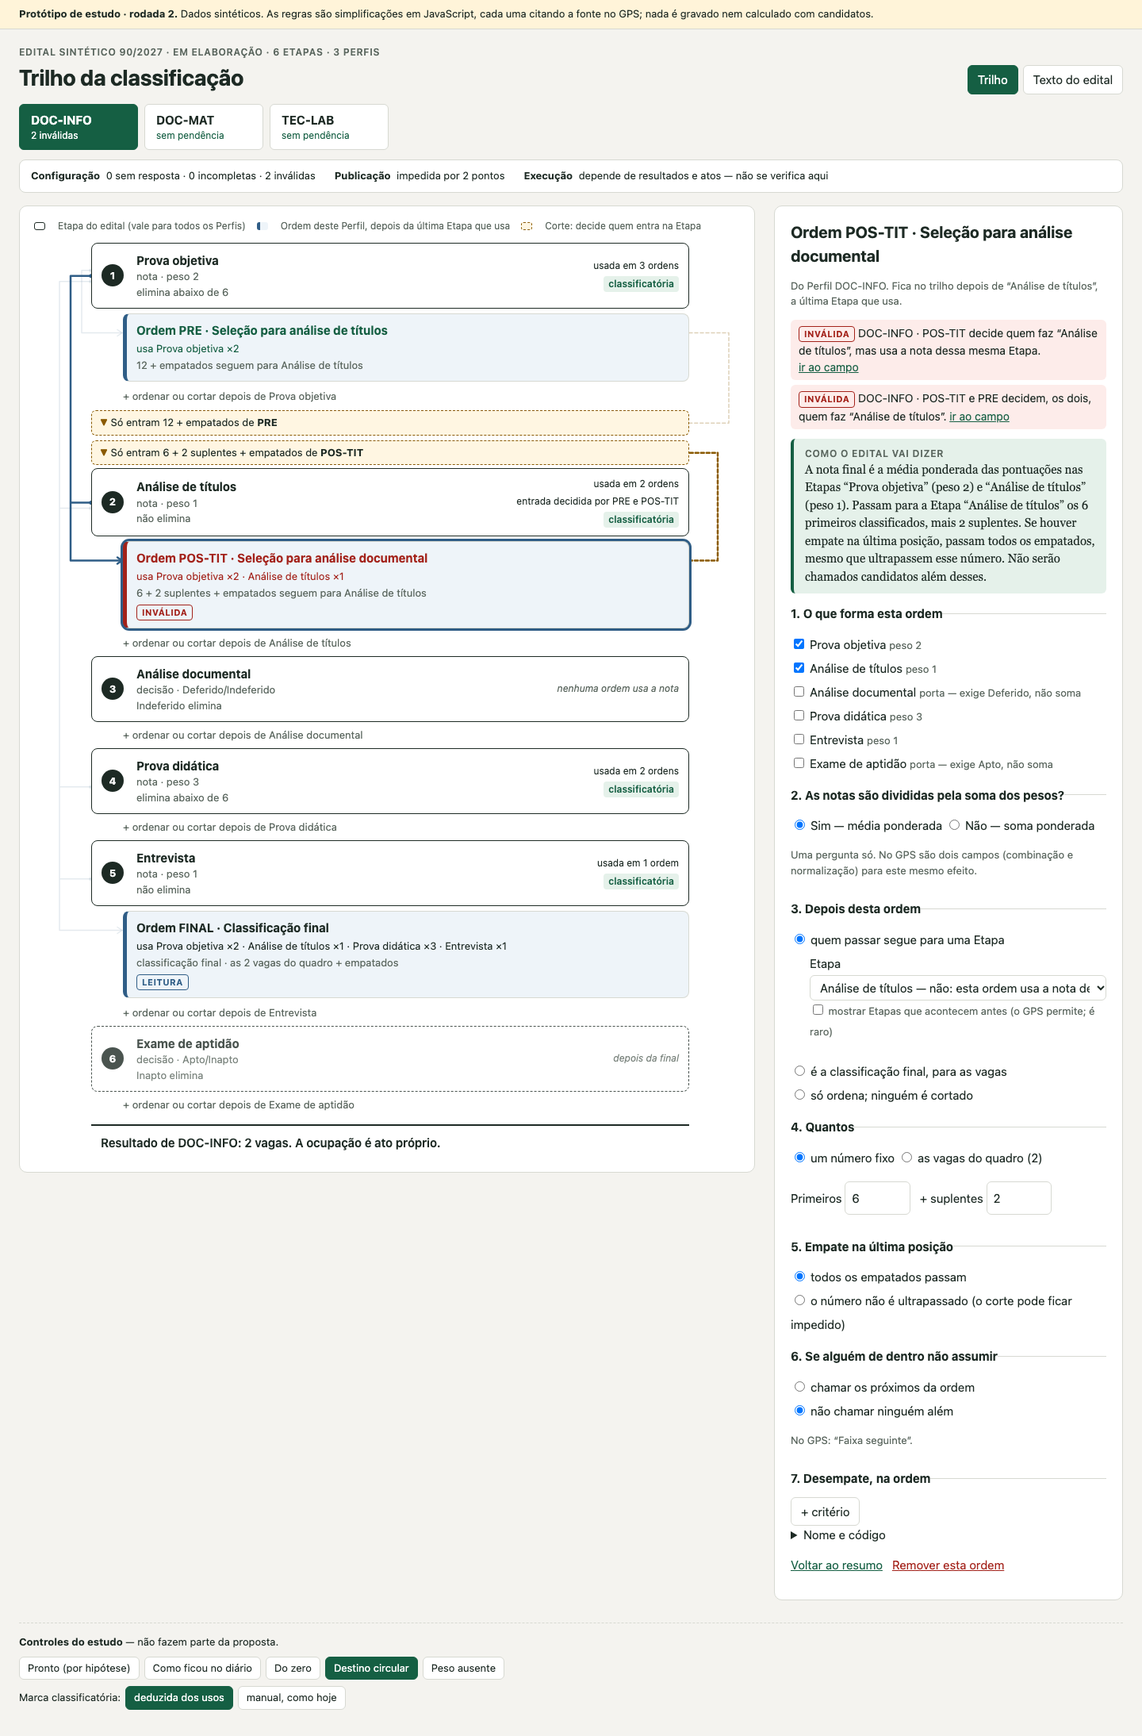
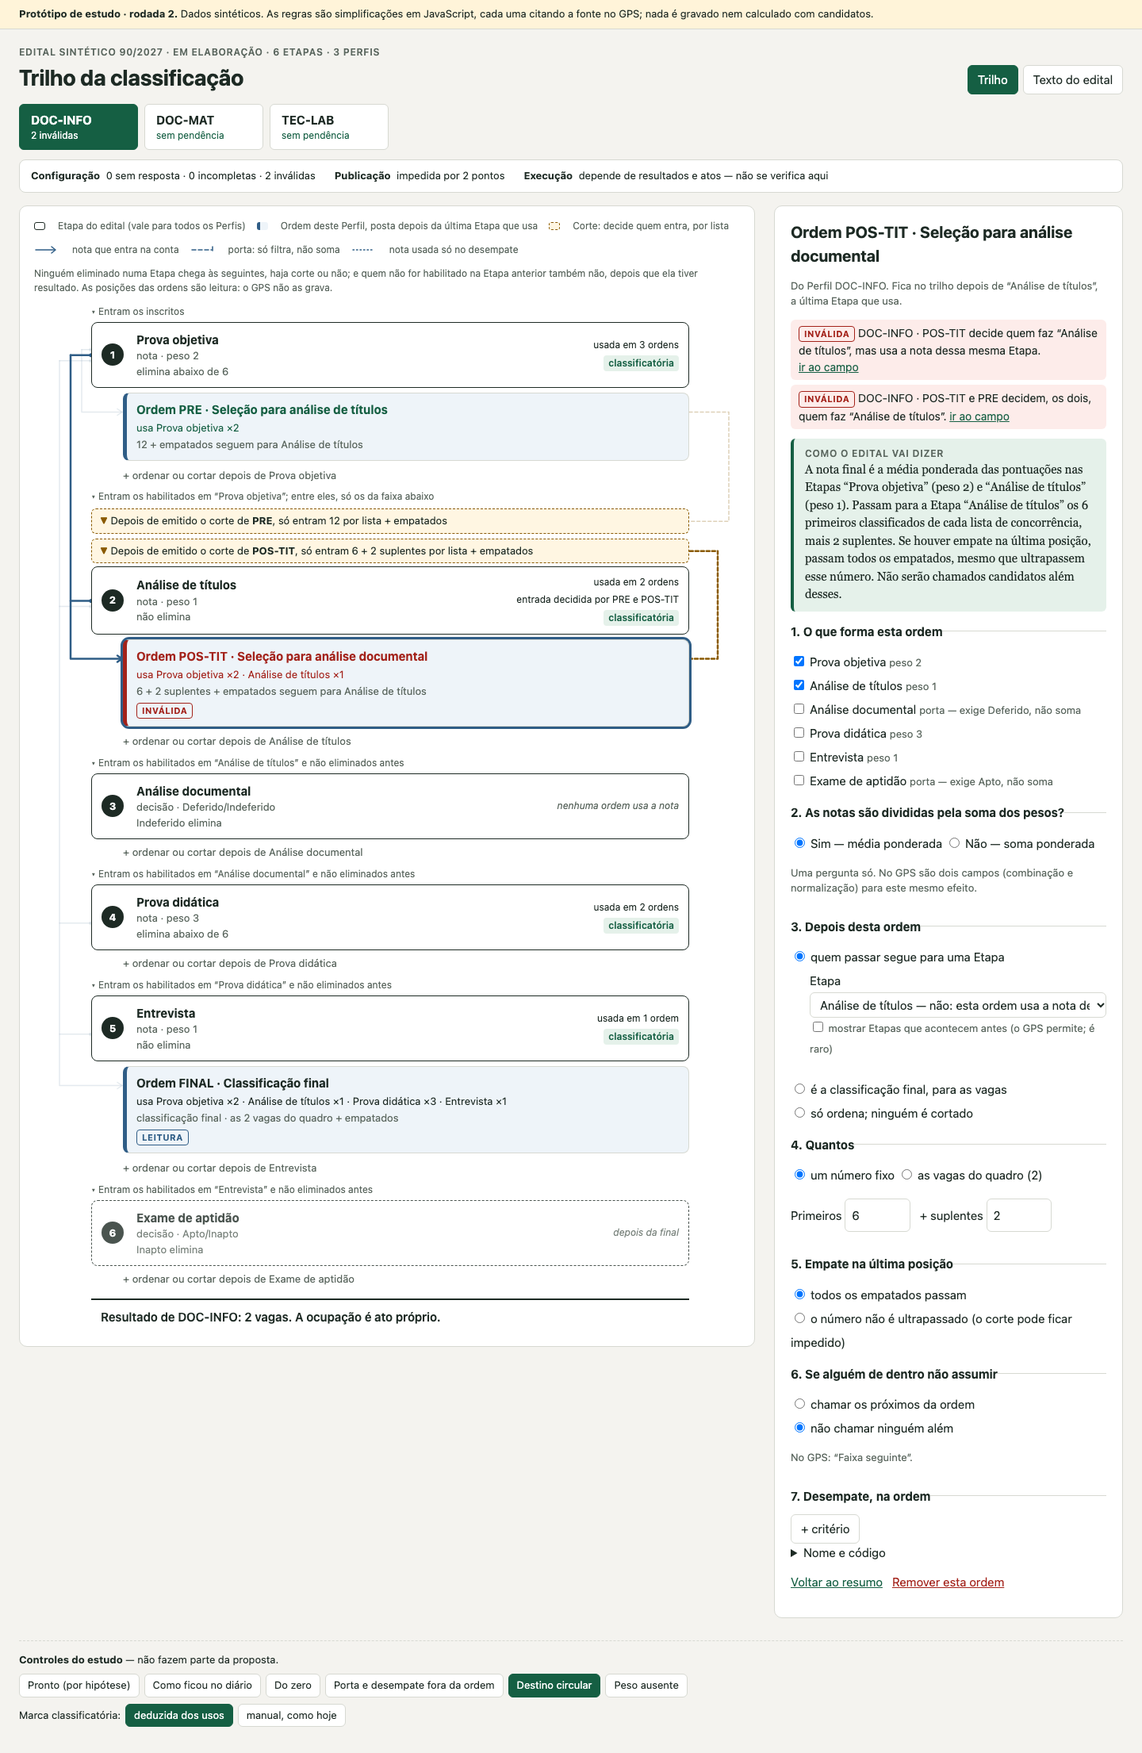
docs(ux): o trilho passa a mostrar porta, desempate, progressão e corte por lista
As linhas do trilho desenhavam campos gravados, mas iguais para relações
diferentes e omitindo o que decide quem chega a cada Etapa. Agora:

- porta (Etapa decisória na ordem) tem linha própria: só filtra, não soma;
- a nota usada só no desempate liga por pontilhado;
- o portão diz que o corte vale por lista e depois de emitido (corte.py);
- entre as Etapas, a passagem escreve a progressão de prontidao.py:
  habilitado na anterior, não eliminado antes;
- a legenda diz que a posição das ordens é leitura, não dado.

Ao conferir, um achado novo (A11, por leitura do código): o desempate pela
nota de uma Etapa que a ordem não usa fica sem valor para todos, porque o
cálculo só lê os Resultados das Etapas enumeradas. Registrado no diário e
entre os achados que pedem correção; cenário próprio no protótipo.

diff --git a/doc/estudo-configuracao-classificacao-2026-11-01/prototipos/v2/app.js b/doc/estudo-configuracao-classificacao-2026-11-01/prototipos/v2/app.js
@@ -54,7 +54,7 @@
     naoRespondida: "sem resposta",
     incompleta: "incompleta",
     invalida: "inválida",
-    execucao: "impedirá a execução",
+    execucao: "falha na execução",
     leitura: "leitura",
   };
 
@@ -74,10 +74,18 @@
     if (c.tipo === "nao") return "não corta — a etapa seguinte recebe todos";
     if (c.destino === "") return "segue para… <em>qual Etapa?</em>";
     if (!c.destino) return "o que acontece depois? <em>sem resposta</em>";
-    const quantos = c.tipo === "quadro" ? "as " + p.vagas + " vagas do quadro" : c.tipo === "fixo" ? (c.alvo || "?") + (c.suplentes ? " + " + c.suplentes + " suplentes" : "") : "quantos?";
+    const quantos = c.tipo === "quadro" ? (p.vagas === 1 ? "a vaga do quadro" : "as " + p.vagas + " vagas do quadro") : c.tipo === "fixo" ? (c.alvo || "?") + (c.suplentes ? " + " + c.suplentes + " suplentes" : "") : "quantos?";
     const emp = c.empate === "todos" ? " + empatados" : "";
     if (c.destino === "nenhuma") return "classificação final · " + quantos + emp;
     return quantos + emp + " seguem para " + esc(G.etapa(m, c.destino).nome);
+  }
+
+  function desempateFora(mc) {
+    const fora = [];
+    mc.criterios.forEach(function (cr) {
+      if (cr.tipo === "pontuacao" && cr.alvo && mc.entradas.indexOf(cr.alvo) < 0 && fora.indexOf(cr.alvo) < 0) fora.push(cr.alvo);
+    });
+    return fora;
   }
 
   function regraCurta(e) {
@@ -103,9 +111,9 @@
     const perfis = S.m.perfis
       .map(function (p) {
         const c = contagem(diag.filter(function (d) { return d.perfil === p.id; }));
-        const marca = c.invalida ? "invalida" : c.incompleta ? "incompleta" : c.naoRespondida ? "naoRespondida" : "ok";
+        const marca = c.invalida ? "invalida" : c.incompleta ? "incompleta" : c.naoRespondida ? "naoRespondida" : c.execucao ? "execucao" : "ok";
         const semFinal = p.marcos.length && !G.relacoes(S.m, p).temFinal;
-        const txt = c.invalida ? c.invalida + " inválida" + (c.invalida > 1 ? "s" : "") : c.incompleta ? c.incompleta + " incompleta" + (c.incompleta > 1 ? "s" : "") : c.naoRespondida ? "perguntas abertas" : semFinal ? "sem pendência · sem ordem final" : "sem pendência";
+        const txt = c.invalida ? c.invalida + " inválida" + (c.invalida > 1 ? "s" : "") : c.incompleta ? c.incompleta + " incompleta" + (c.incompleta > 1 ? "s" : "") : c.naoRespondida ? "perguntas abertas" : semFinal ? "sem pendência · sem ordem final" : c.execucao ? "sem pendência · " + c.execucao + " falha na execução" : "sem pendência";
         return '<button type="button" class="aba-perfil" data-acao="perfil" data-id="' + p.id + '" data-k="perfil:' + p.id + '" aria-pressed="' + (p.id === S.perfil) + '">' +
           '<span class="codigo">' + esc(p.codigo) + "</span><span class=\"estado estado-" + marca + '">' + txt + "</span></button>";
       })
@@ -121,7 +129,7 @@
       '<div class="eixos"><p><span class="eixo">Configuração</span> ' +
       geral.naoRespondida + " sem resposta · " + geral.incompleta + " incompleta" + (geral.incompleta === 1 ? "" : "s") + " · " + geral.invalida + " inválida" + (geral.invalida === 1 ? "" : "s") + "</p>" +
       '<p><span class="eixo">Publicação</span> ' + (impede ? "impedida por " + impede + " ponto" + (impede > 1 ? "s" : "") : "nada nesta parte a impede") + "</p>" +
-      '<p><span class="eixo">Execução</span> depende de resultados e atos — ' + (geral.execucao ? geral.execucao + " regra" + (geral.execucao > 1 ? "s" : "") + " impedirá" + (geral.execucao > 1 ? "ão" : "") + " a consolidação" : "não se verifica aqui") + "</p></div>"
+      '<p><span class="eixo">Execução</span> depende de resultados e atos — ' + (geral.execucao ? geral.execucao + (geral.execucao > 1 ? " regras não funcionarão" : " regra não funcionará") + " como o texto diz" : "não se verifica aqui") + "</p></div>"
     );
   }
 
@@ -141,14 +149,19 @@
     const posFinal = Math.max.apply(null, [-1].concat(p.marcos.filter(function (mc) { return mc.corte.destino === "nenhuma"; }).map(function (mc) { return G.posicao(m, mc); })));
     const itens = [];
     m.etapas.forEach(function (e, i) {
+      itens.push(
+        '<li class="passagem"><span aria-hidden="true">▾</span> ' +
+          (i === 0 ? "Entram os inscritos" : "Entram os habilitados em “" + esc(m.etapas[i - 1].nome) + "”" + (m.etapas.slice(0, i - 1).some(function (x) { return x.eliminatoria; }) ? " e não eliminados antes" : "")) +
+          (p.marcos.some(function (mc) { return mc.corte.tipo !== "nao" && mc.corte.destino === e.id; }) ? "; entre eles, só os da faixa abaixo" : "") + "</li>"
+      );
       p.marcos.forEach(function (mc) {
         if (mc.corte.destino !== e.id || mc.corte.tipo === "nao") return;
         const pos = G.posicao(m, mc);
         const puladas = m.etapas.slice(pos + 1, i).map(function (x) { return x.nome; });
-        const quantos = mc.corte.tipo === "quadro" ? p.vagas + " (vagas)" : (mc.corte.alvo || "?") + (mc.corte.suplentes ? " + " + mc.corte.suplentes + " suplentes" : "");
+        const quantos = mc.corte.tipo === "quadro" ? "tantos quantas as vagas da lista (" + p.vagas + " na ampla)" : (mc.corte.alvo || "?") + (mc.corte.suplentes ? " + " + mc.corte.suplentes + " suplentes" : "") + " por lista";
         itens.push(
-          '<li class="portao' + (puladas.length ? " salta" : "") + '" data-portao="' + mc.id + '"><span class="seta" aria-hidden="true">▼</span> Só entram ' + quantos +
-            (mc.corte.empate === "todos" ? " + empatados" : "") + " de <strong>" + esc(mc.codigo) + "</strong>" +
+          '<li class="portao' + (puladas.length ? " salta" : "") + '" data-portao="' + mc.id + '"><span class="seta" aria-hidden="true">▼</span> Depois de emitido o corte de <strong>' + esc(mc.codigo) + "</strong>, só entram " + quantos +
+            (mc.corte.empate === "todos" ? " + empatados" : "") +
             (puladas.length ? ' <span class="aviso-salto">vem de antes de ' + esc(puladas.join(", ")) + ", que não é cortada</span>" : "") + "</li>"
         );
       });
@@ -184,6 +197,7 @@
             '<button type="button" class="cartao-marco estado-' + pior + '" data-acao="sel" data-tipo="marco" data-id="' + mc.id + '" data-k="sel:marco:' + mc.id + '">' +
             '<span class="rotulo">Ordem ' + esc(mc.codigo) + " · " + esc(mc.nome) + "</span>" +
             '<span class="usa">usa ' + (entradas.length ? entradas.join(" · ") : "<em>nenhuma etapa</em>") + "</span>" +
+            (desempateFora(mc).length ? '<span class="usa">desempata pela nota de ' + desempateFora(mc).map(function (id) { return esc(G.etapa(m, id).nome); }).join(", ") + "</span>" : "") +
             '<span class="sai">' + resumoDoCorte(m, p, mc) + "</span>" +
             (pior !== "ok" ? '<span class="selo selo-' + pior + '">' + nivelRotulo[pior] + "</span>" : "") + "</button></li>"
         );
@@ -199,7 +213,9 @@
     return (
       '<section class="area-trilho" aria-labelledby="t-trilho">' + prevista +
       '<h2 id="t-trilho" class="sr">Trilho do Perfil ' + esc(p.codigo) + "</h2>" +
-      '<p class="legenda"><span class="lg lg-etapa"></span> Etapa do edital (vale para todos os Perfis) <span class="lg lg-marco"></span> Ordem deste Perfil, depois da última Etapa que usa <span class="lg lg-portao"></span> Corte: decide quem entra na Etapa</p>' +
+      '<p class="legenda"><span class="lg lg-etapa"></span> Etapa do edital (vale para todos os Perfis) <span class="lg lg-marco"></span> Ordem deste Perfil, posta depois da última Etapa que usa <span class="lg lg-portao"></span> Corte: decide quem entra, por lista</p>' +
+      '<p class="legenda" aria-hidden="true"><svg width="34" height="10"><path class="arco" d="M2 5H26"/><path class="arco ponta" d="M22 1L27 5L22 9"/></svg> nota que entra na conta <svg width="34" height="10"><path class="arco porta" d="M2 5H27"/><path class="arco porta" d="M28 1V9"/></svg> porta: só filtra, não soma <svg width="34" height="10"><path class="arco desempate" d="M2 5H28"/></svg> nota usada só no desempate</p>' +
+      '<p class="legenda">Ninguém eliminado numa Etapa chega às seguintes, haja corte ou não; e quem não for habilitado na Etapa anterior também não, depois que ela tiver resultado. As posições das ordens são leitura: o GPS não as grava.</p>' +
       '<div class="trilho-moldura"><svg class="arcos" aria-hidden="true"></svg><ol class="trilho" aria-label="Etapas e ordens de ' + esc(p.codigo) + ', na ordem do certame">' +
       itens.join("") +
       '<li class="fim' + (G.relacoes(m, p).temFinal ? "" : " sem-final") + '"><span>Resultado de ' + esc(p.codigo) + ": " + p.vagas + " vaga" + (p.vagas > 1 ? "s" : "") + ". " +
@@ -222,7 +238,7 @@
     // fundam numa linha só.
     const marcos = ordemDaJornada(m, p).filter(function (mc) { return mc.entradas.length; });
     const alcance = function (mc) {
-      const idx = mc.entradas.map(function (id) { return G.indice(m, id); });
+      const idx = mc.entradas.concat(desempateFora(mc)).map(function (id) { return G.indice(m, id); });
       return Math.max.apply(null, idx) - Math.min.apply(null, idx);
     };
     const faixas = marcos.slice().sort(function (a, b) { return alcance(a) - alcance(b) || G.posicao(m, a) - G.posicao(m, b); });
@@ -243,24 +259,35 @@
       const ym = rm.top - r0.top + Math.min(24, rm.height / 2);
       const xm = rm.left - r0.left;
       const cls = "arco" + (ativo(mc) ? " ativo" : algumAtivo ? " apagado" : "");
-      let d = "";
-      let pontos = "";
+      let traco = "";
       let topo = ym;
+      let base = ym;
       let xLane = null;
-      mc.entradas.forEach(function (id) {
-        const ee = moldura.querySelector('[data-etapa="' + id + '"] .cartao-etapa');
+      // Cada ligação tem o seu tipo: nota que entra na conta, porta que só filtra, nota só de
+      // desempate. As três descem pela mesma faixa até a ordem.
+      const ligacoes = mc.entradas.map(function (id) { return { id: id, tipo: G.ePorta(m, id) ? "porta" : "nota" }; })
+        .concat(desempateFora(mc).map(function (id) { return { id: id, tipo: "desempate" }; }));
+      ligacoes.forEach(function (lg) {
+        const ee = moldura.querySelector('[data-etapa="' + lg.id + '"] .cartao-etapa');
         if (!ee) return;
         const re = ee.getBoundingClientRect();
         const xe = re.left - r0.left;
         if (xLane === null) xLane = xe - 12 - rank * gap;
         const ye = re.top - r0.top + re.height / 2 + (rank - (n - 1) / 2) * 7;
         topo = Math.min(topo, ye);
-        d += "M" + xe + " " + ye + " H" + xLane + " ";
-        pontos += '<circle class="' + cls + ' ponto" cx="' + xe + '" cy="' + ye + '" r="2.6"/>';
+        base = Math.max(base, ye);
+        if (lg.tipo === "porta") {
+          traco += '<path class="' + cls + ' porta" d="M' + xe + " " + ye + " H" + xLane + '"/>' +
+            '<path class="' + cls + ' porta" d="M' + (xe - 6) + " " + (ye - 5) + " V" + (ye + 5) + '"/>';
+        } else if (lg.tipo === "desempate") {
+          traco += '<path class="' + cls + ' desempate" d="M' + xe + " " + ye + " H" + xLane + '"/>';
+        } else {
+          traco += '<path class="' + cls + '" d="M' + xe + " " + ye + " H" + xLane + '"/>' +
+            '<circle class="' + cls + ' ponto" cx="' + xe + '" cy="' + ye + '" r="2.6"/>';
+        }
       });
       if (xLane === null) return;
-      d += "M" + xLane + " " + topo + " V" + ym + " H" + (xm - 1);
-      const traco = '<path class="' + cls + '" d="' + d + '"/>' + pontos +
+      traco += '<path class="' + cls + '" d="M' + xLane + " " + topo + " V" + base + " M" + xLane + " " + ym + " H" + (xm - 1) + '"/>' +
         '<path class="' + cls + ' ponta" d="M' + (xm - 7) + " " + (ym - 4) + " L" + (xm - 1) + " " + ym + " L" + (xm - 7) + " " + (ym + 4) + '"/>';
       const pt = moldura.querySelector('[data-portao="' + mc.id + '"]');
       let corte = "";

diff --git a/doc/estudo-configuracao-classificacao-2026-11-01/prototipos/v2/modelo.js b/doc/estudo-configuracao-classificacao-2026-11-01/prototipos/v2/modelo.js
@@ -110,6 +110,13 @@
         m.perfis[0].marcos = [];
       },
     },
+    desempateFora: {
+      rotulo: "Porta e desempate fora da ordem",
+      aplicar: function (m) {
+        m.perfis[1].marcos[1].entradas = ["obj", "tit", "doc", "did"];
+        m.perfis[1].marcos[1].criterios.push({ tipo: "pontuacao", alvo: "ent", ausente: "ultimo" });
+      },
+    },
     circular: {
       rotulo: "Destino circular",
       aplicar: function (m) {
@@ -216,7 +223,7 @@
     }
     const c = mc.corte;
     if (c.tipo === "fixo" && c.alvo) {
-      const quem = "os " + c.alvo + " primeiros classificados" + (c.suplentes ? ", mais " + c.suplentes + " suplentes" : "");
+      const quem = "os " + c.alvo + " primeiros classificados de cada lista de concorrência" + (c.suplentes ? ", mais " + c.suplentes + " suplentes" : "");
       if (c.destino && c.destino !== "nenhuma") fr.corte.push("Passam para a Etapa " + aspas(G.etapa(m, c.destino).nome) + " " + quem + ".");
       else fr.corte.push("São classificados " + quem + ".");
     } else if (c.tipo === "quadro") {
@@ -336,6 +343,11 @@
           const okAlvo = cr.tipo === "pontuacao" ? !!G.etapa(m, cr.alvo) : !!p.fatos.find(function (f) { return f.id === cr.alvo; });
           if (!okAlvo) add("incompleta", p, alvo, rot + ": o " + (i + 1) + "º critério de desempate não diz o que compara.", "criterio:" + i);
           if (!cr.ausente) add("incompleta", p, alvo, rot + ": o " + (i + 1) + "º critério não diz o que fazer quando o valor falta.", "criterio:" + i);
+          // calculo.py lê só os Resultados das Etapas enumeradas (`etapa_id__in=enumeradas`), e
+          // universo_classificavel.py monta as pontuações deles: a nota de outra Etapa chega vazia.
+          if (cr.tipo === "pontuacao" && okAlvo && mc.entradas.indexOf(cr.alvo) < 0)
+            add("execucao", p, alvo, rot + ": o " + (i + 1) + "º critério compara a nota de " + aspas(G.etapa(m, cr.alvo).nome) +
+              ", que esta ordem não usa. O cálculo só lê as notas das Etapas usadas: o valor faltará para todos, e o critério não separa ninguém.", "criterio:" + i);
         });
       });
       // ---- leituras: não são regras do GPS, são o que a estrutura diz

diff --git a/doc/estudo-configuracao-classificacao-2026-11-01/prototipos/v2/v2.css b/doc/estudo-configuracao-classificacao-2026-11-01/prototipos/v2/v2.css
@@ -82,6 +82,7 @@ input.medio { width: 10em; }
 .estado-incompleta { color: var(--incompleta); }
 .estado-naoRespondida { color: var(--sem-resposta); }
 .estado-ok { color: var(--acento); }
+.estado-execucao { color: var(--execucao); }
 .eixos { display: flex; gap: 24px; flex-wrap: wrap; margin: 12px 0 16px; padding: 10px 14px; background: var(--papel); border: 1px solid var(--linha); border-radius: 8px; font-size: 13px; }
 .eixos p { margin: 0; }
 .eixo { font-weight: 700; margin-right: 4px; }
@@ -136,6 +137,10 @@ table.decisao thead th { background: var(--fundo); font-size: 12px; text-transfo
 .arco.corte { stroke: var(--portao); stroke-dasharray: 4 3; opacity: 0.55; }
 .arco.ativo { stroke: var(--marco-borda); stroke-width: 2.5; opacity: 1; }
 .arco.apagado { opacity: 0.28; }
+.arco.porta { stroke-dasharray: 5 3; }
+.arco.desempate { stroke-dasharray: 1.5 3; stroke-width: 1.5; }
+.legenda svg { vertical-align: middle; overflow: visible; }
+.legenda svg .arco { stroke: var(--marco-borda); }
 .arco.ponto { fill: var(--arco); stroke: none; }
 .arco.ponto.ativo { fill: var(--marco-borda); }
 .arco.ponta { stroke-linejoin: round; }
@@ -170,6 +175,7 @@ table.decisao thead th { background: var(--fundo); font-size: 12px; text-transfo
 .portao.salta { border-width: 2px; }
 .aviso-salto { display: block; color: var(--portao); font-weight: 600; }
 .junta { margin: 0 0 0 40px; }
+.passagem { margin: 6px 0 0; font-size: 12px; color: var(--suave); }
 .mais { border: 0; background: none; color: var(--suave); font-size: 13px; padding: 2px 0; }
 .mais:hover, .mais:focus-visible { color: var(--acento); text-decoration: underline; }
 .fim { margin: 12px 0 0; padding: 10px 12px; border-top: 2px solid var(--tinta); font-weight: 600; }

diff --git a/doc/estudo-configuracao-classificacao-2026-11-01/scripts/capturar_rodada2.py b/doc/estudo-configuracao-classificacao-2026-11-01/scripts/capturar_rodada2.py
@@ -100,6 +100,10 @@ with sync_playwright() as p:
     esperar(page)
     capturar(page, "v2-12-tec-lab-etapas-compartilhadas")
 
+    page.goto(BASE + "?cenario=desempateFora&perfil=docmat&sel=marco:matfinal")
+    esperar(page)
+    capturar(page, "v2-16-porta-e-desempate-fora-da-ordem")
+
     page.goto(BASE + "?cenario=diario&modo=texto")
     esperar(page)
     capturar(page, "v2-13-texto-do-edital-como-no-diario")

diff --git a/doc/estudo-configuracao-classificacao-2026-11-01/README.md b/doc/estudo-configuracao-classificacao-2026-11-01/README.md
@@ -9,10 +9,10 @@ diagnóstico e a recomendação.
 | Leia | O quê |
 |---|---|
 | [sintese.md](sintese.md) | Uma página: o problema medido, a aposta, os três passos, a confiança |
-| [diario-de-construcao.md](diario-de-construcao.md) | O percurso passo a passo, com 10 achados e as referências de código ([registro bruto](diario-registro-bruto.txt), [capturas](capturas/diario/)) |
+| [diario-de-construcao.md](diario-de-construcao.md) | O percurso passo a passo, com 11 achados e as referências de código ([registro bruto](diario-registro-bruto.txt), [capturas](capturas/diario/)) |
 | [prototipos/v2/](prototipos/v2/index.html) | Trilho editável e texto do edital editável, sobre o mesmo modelo; cenários de estudo no rodapé |
 | [decisoes-para-o-usuario.md](decisoes-para-o-usuario.md) | D-1 a D-7: o que muda o que o GPS grava ou publica, e por isso não se decide aqui |
-| [verificacao-rodada2.json](verificacao-rodada2.json) | Sem erro de JavaScript; teclado; largura em 390 px; [16 capturas](capturas/rodada2/) por [script](scripts/capturar_rodada2.py) |
+| [verificacao-rodada2.json](verificacao-rodada2.json) | Sem erro de JavaScript; teclado; largura em 390 px; [17 capturas](capturas/rodada2/) por [script](scripts/capturar_rodada2.py) |
 
 Servir a pasta: `python3 -m http.server 8769 --bind 127.0.0.1 --directory doc/estudo-configuracao-classificacao-2026-11-01`
 e abrir <http://127.0.0.1:8769/prototipos/v2/index.html>. Os arquivos também abrem direto do disco.

diff --git a/doc/estudo-configuracao-classificacao-2026-11-01/diario-de-construcao.md b/doc/estudo-configuracao-classificacao-2026-11-01/diario-de-construcao.md
@@ -190,6 +190,22 @@ ordem, para as vagas deste Edital que não forem preenchidas pelos primeiros cla
 que não ocupa vagas, a frase parece descrever outro ato. É questão de norma, que fica para o
 usuário decidir, e não se propõe aqui.
 
+### A11 — Desempate pela nota de uma Etapa que a ordem não usa
+
+Achado ao conferir se as linhas do protótipo representam a configuração, e não durante o
+percurso. O cálculo oficial só lê os Resultados das Etapas que a ordem usa:
+- [calculo.py](../../backend/processo_seletivo/classificacao/application/calculo.py) filtra
+  `etapa_id__in=enumeradas`;
+- [universo_classificavel.py](../../backend/processo_seletivo/classificacao/domain/universo_classificavel.py)
+  monta as pontuações só desses Resultados;
+- o desempate as lê dali ([desempate.py](../../backend/processo_seletivo/classificacao/domain/desempate.py)).
+
+Um critério "maior nota em Entrevista", numa ordem que não usa a Entrevista, encontra o valor
+vazio para todos. Com "fica por último", não separa ninguém; com "não se aplica", sai de todos os
+grupos. O seletor oferece essa Etapa, e não foi encontrada validação que acuse o caso. **Conferido
+por leitura do código, não por execução.** É defeito a confirmar com um teste, não decisão de
+governança.
+
 ## O que se confirma da rodada 1, e o que se corrige
 
 - **Confirma-se** a separação entre Etapa (Edital) e marco (Perfil) como fonte de idas e vindas, e

diff --git a/doc/estudo-configuracao-classificacao-2026-11-01/decisoes-para-o-usuario.md b/doc/estudo-configuracao-classificacao-2026-11-01/decisoes-para-o-usuario.md
@@ -82,5 +82,7 @@ Pedem correção, e cabem numa spec curta própria:
 - **A2** — a recomposição do cartão apaga o que foi digitado durante a ida e volta (`_marco.html`).
 - **A3** — a mensagem "marco FINAL" não nomeia o Perfil nem leva ao campo.
 - **A9** — o caso fictício da prévia mostra notas acima da máxima declarada (a conferir).
+- **A11** — o desempate pela nota de uma Etapa que a ordem não usa fica sem valor para todos;
+  confirmar com um teste e, se for o caso, recusar na validação ou incluir a nota no universo.
 - **A10** — a frase dos suplentes num corte intermediário (`pdf.py:1963`) é questão de norma, e é
   a única deste grupo que precisa de decisão.
